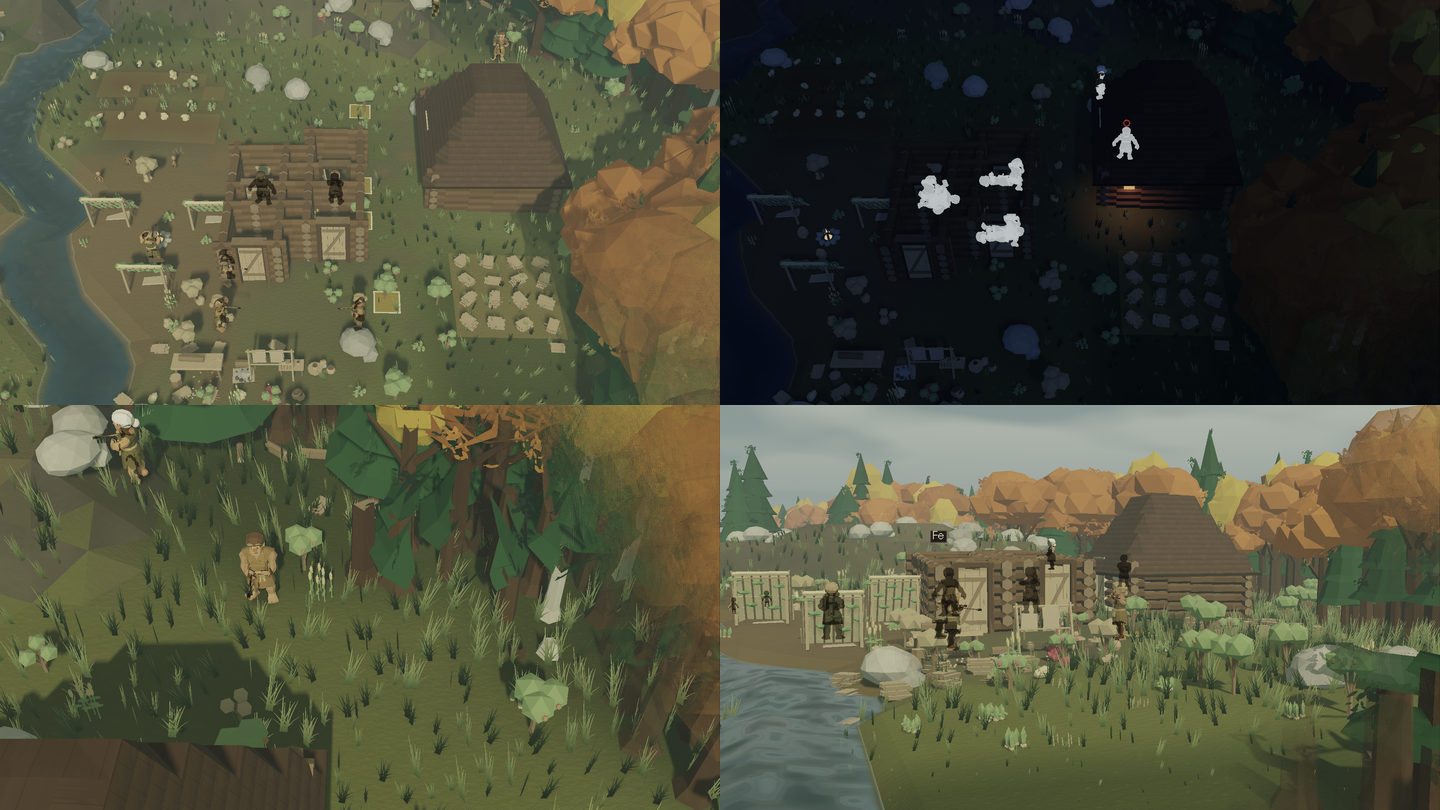
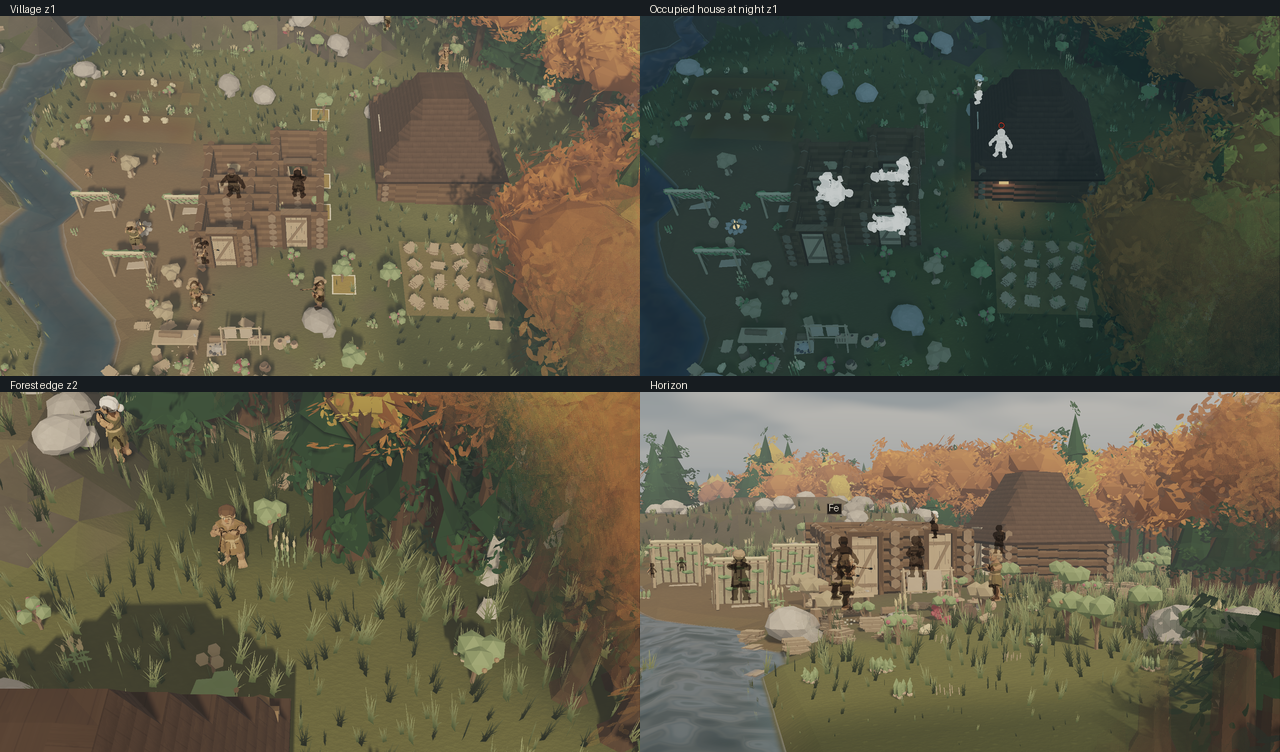
Keep the second render review and its visibility result reproducible
Refresh the review sheet from the GPU capture and record the night luminance and outstanding visibility failure.

Scope-risk: narrow
Tested: docs check; combined capture and FPS receipts
Not-tested: full publication gate
Tested: visibility step 39 scored 7/8

diff --git a/docs/HISTORY.md b/docs/HISTORY.md
@@ -1,6 +1,6 @@
 # WorldSim 역사
 
-- 2026-11-18 — MOOD1 / DETAIL1에서 시간대·고난 색 보정, 지붕 있는 재실 공간의 창과 불빛, 지형 질감·풀·수관·대기를 로컬 작업으로 묶었다. GPU 성능 기준 충족, 가시성 단계39 7/8, 미게시([ADR0071](decisions/0071-world-look.md)).
+- 2026-11-18 — MOOD1 / DETAIL1 검토 2차(`2cb379246))에서 밤 환경광과 낮의 따뜻한 색을 더하고 잎 무리와 원거리 주민 윤곽을 강화했다. 밤 1배 평균 Y′ 57.05(목표 48.63), GPU 성능 기준 충족, 가시성 단계39 7/8, 미게시([ADR0071](decisions/0071-world-look.md)).
 - 2026-11-17 — M-GROW-a 구현 후보: 길의 마모·이동 간격, 원인을 남기는 집사 구역 배치, 거주 단계·마당과 안전한 시대별 개축, format24 저장 확장을 연결했다. 4개 시드의120일 기능·저장·재생 수용 시험은 통과했으나, 최종 캡처·고정 SHA 전체 게이트·크래시 감지·게시는 대기이며 완료 선언이 아니다([보고서](v8/mgrow/MGROW_REPORT.md), [ADR0070](decisions/0070-bounded-village-growth.md)).
 - 2026-11-17 — M-POLISH+GATE: art-tex·gate-reuse를 C3-b 위에 병합하고(3d-roof2·art-ui 병합은 주민 가시성 단계39 실패로 되돌림, 각 브랜치에 보존) D-GATE-1(test 프로필 opt-level 2, 디버그 단언·오버플로 검사 유지)을 더했다. 길어진 카드 묶음이 빈 이야기 띠를 학습 도우미 위로 밀어 도우미가 숨던 문제를 고쳤고, 2D 시절 `mart21_seasons.png`는 `fd3f59801` 이력에 보존한다. 시뮬레이션 무변경([결정](v8/c1/C1_DECISIONS.md)).
 - 2026-11-16 — M-GATE-REUSE 도구 구현: 고정 입력에 묶인 전체 debug 사전 실행 영수증을 full gate step4에서 재사용하며 불일치는 재실행한다. Python 도구 검증과 전체 게임 게이트 검증을 구분하고 C3-b 이후 통합을 기다린다([D-GATE-2](v8/c1/C1_DECISIONS.md), [ADR0069](decisions/0069-frozen-debug-suite-reuse.md)).

diff --git a/README.md b/README.md
@@ -14,7 +14,7 @@
 
 **현재 게시판은 C1-b (`4a44336e7`, 2026-11-10):** 신석기 콘텐츠와 실제 포획→성체 쌍→출생→착유→도축 사슬을 갖췄다. 전체 게이트49/49와 wip→main 게시를 확인했다. 이전 농경·직조 작업과 측정의 상세 기록은 [M6b 보고](docs/v8/m6b/M6B_REPORT.md)에 보존되어 있다.
 
-[MOOD1·DETAIL1 로컬 후보 화면 모음](docs/images/mood1_detail1_contact_sheet.png)은 실제 게임 창 1920×1080에서 촬영한 낮 마을, 재실 주택의 밤 조명, 숲 가장자리, 낮은 시점의 지평선을 담았다. 후보는 가시성 단계39에서 낮 0.25배 장면이 기준에 미달해 미게시 상태다.
+[MOOD1·DETAIL1 로컬 후보 화면 모음](docs/images/mood1_detail1_contact_sheet.png)은 검토 2차의 낮 마을, 재실 주택의 밤 조명, 숲 가장자리, 낮은 시점의 지평선을 담았다. 1920×1080 게임 창에서 촬영했다. 가시성 단계39는 7/8이고, 낮 0.25배 장면이 기준에 미달해 미게시 상태다.
 
 [C2 화면 모음](https://github.com/hyunlord/new-world/blob/b884ce4d45fe78aeeb52b5ad0ee1c6e2094a69ac/docs/images/c2_contact_sheet.png)은 청동기 기술, 실제 보행으로 찾은 구리 광맥과 발견 원인, 제련·주조 조리법, 지어진 흙벽돌집, 같은 실제 가축 저장의 실루엣 변경 전후를 담았다. 모두 당시 게임 창1920×1080으로 새로 촬영했다. C1-b 게시판은 `4a44336e7`이며, C2-a 후보의 검사·게시 조건은 [C2 보고](docs/v8/c2/C2_REPORT.md)에 기록한다. 채굴부터 주석 교역과 청동 도구 사용까지의 사슬은 C2-b 작업이다. [C1 게시 기록](docs/v8/c1/C1_REPORT.md), [M-SPINE 기록](docs/v8/spine/M_SPINE_B_REPORT.md), [M6a 기록](docs/v8/m6a/M6A_REPORT.md), [물·물가·겨울 눈 비교](docs/images/mux_compare_sheet.png).
 

diff --git a/docs/ROADMAP.md b/docs/ROADMAP.md
@@ -1,6 +1,6 @@
 # 로드맵 (V8)
 
-> **MOOD1 / DETAIL1 — 로컬 렌더 작업 (2026-11-18):** `v8/mood1`에서 시간대·고난에 따른 색과 조명, 지형·풀·수관·재질·대기를 구현했다. FPS 기준은 충족했고 단계39의 낮 0.25배 가시성은 미달했다. [결정](decisions/0071-world-look.md).
+> **MOOD1 / DETAIL1 — 로컬 렌더 작업 (2026-11-18):** `v8/mood1`에서 시간대·고난에 따른 색과 조명, 지형·풀·수관·재질·대기를 구현했다. 검토 2차에서 밤을 밝히고 잎 무리와 주민 윤곽을 강화했다. FPS 기준은 충족했고 단계39의 낮 0.25배 가시성은 미달했다. [결정](decisions/0071-world-look.md).
 
 > **M3D-ROOF2 — 보류 (2026-11-17):** `v8/3d-roof2`는 M-POLISH에서 병합했다가 되돌렸다. 가려진 주민을 칠한 색으로 그리자 전체 게이트 단계39(주민 가시성)가 기준 아래로 떨어졌다. 수정 후 다시 통합한다.
 > **M3D-IMG Part T — 텍스처 작업 브랜치 (2026-11-16):** `v8/art-tex`에서 생성 알베도·노멀과 기존 재질 연결을 제공한다. [결정](decisions/0068-generated-material-texture-atlas.md). 전후 화면·500명 FPS는 공유 GPU 게이트 허용 후 검증하며, 이 브랜치는 게임 게시가 아니다.
